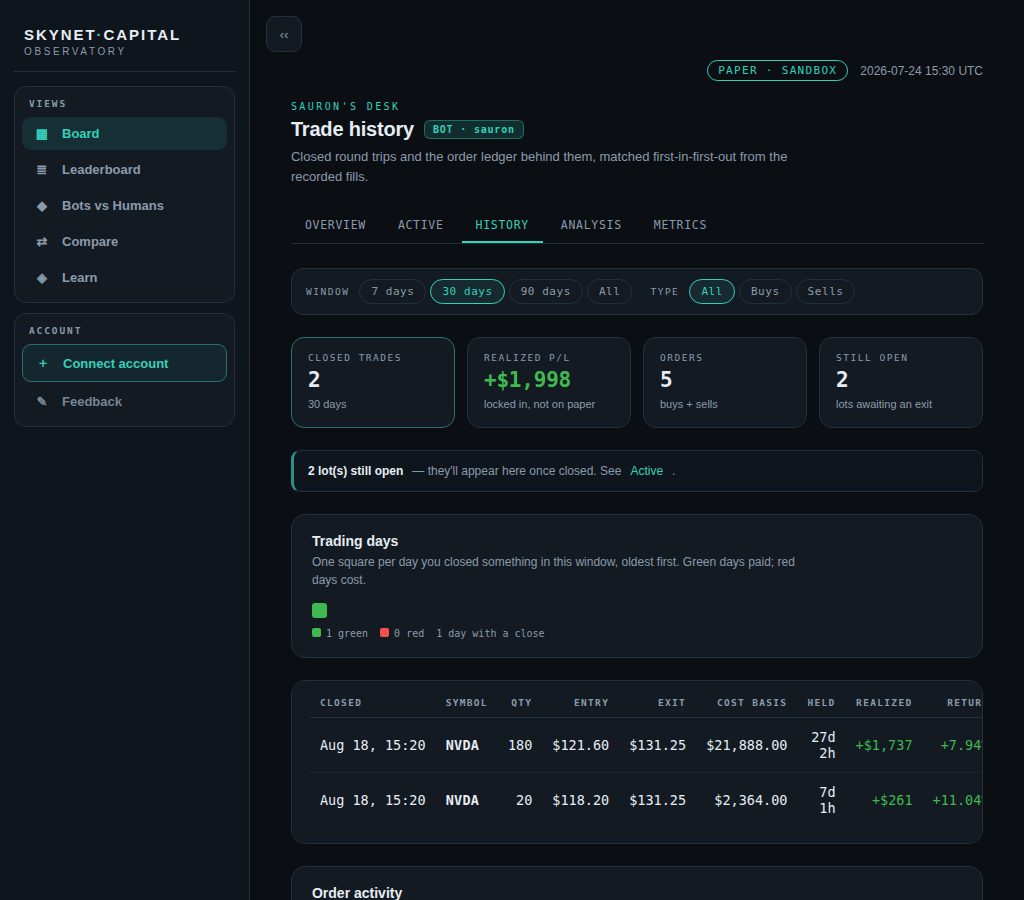
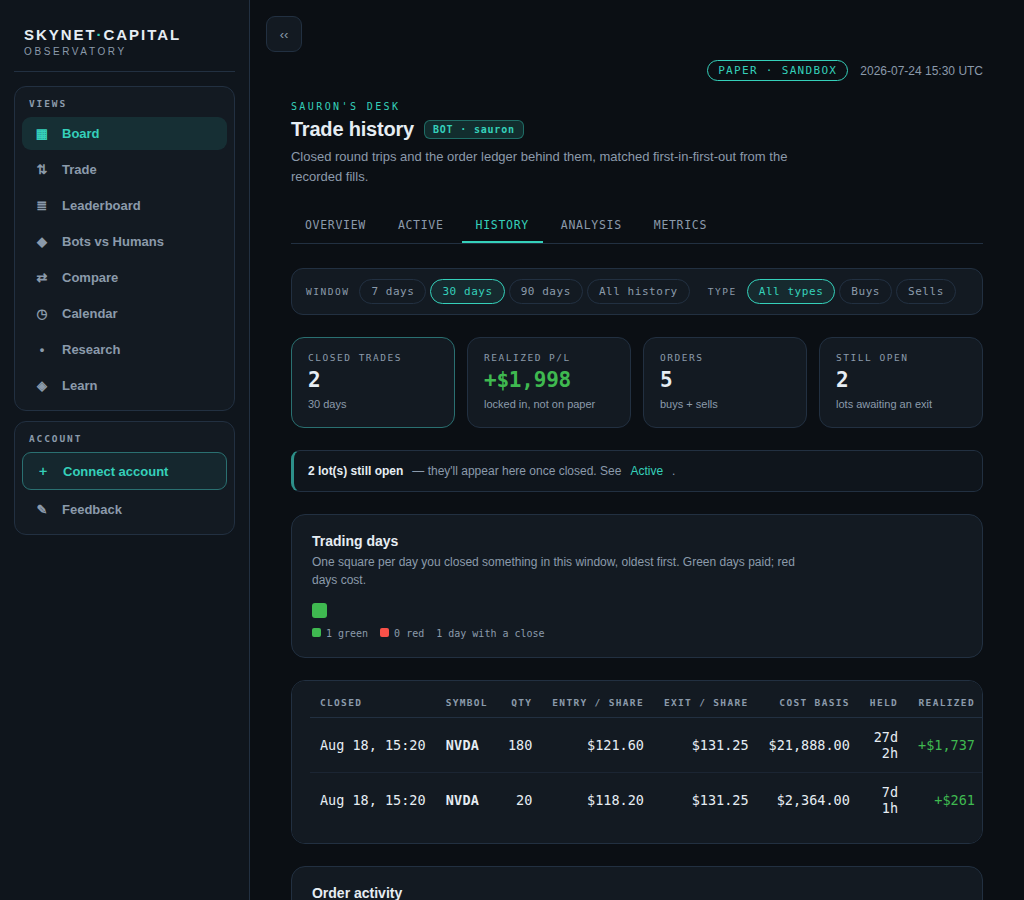
fix(observatory): plain-language blotter headers and unambiguous filter chips
PR #459 feedback: per-share cost named as such (cost / share, entry / share),
"Mark" renamed to Price, and the window chip now says "All history" so it
can't be mistaken for the type filter's "All types".

Claude-Session: https://claude.ai/code/session_01EA6fUkVk57k31yJhzUWXrL

diff --git a/tests/observatory/desk-views.spec.ts b/tests/observatory/desk-views.spec.ts
@@ -113,13 +113,17 @@ describe("desk data adapters", () => {
 });
 
 describe("positions view — the blotter", () => {
-  it("shows the holding with its mark, cost basis, unrealized P/L and return", () => {
+  it("shows the holding with its price, cost basis, unrealized P/L and return", () => {
     const html = renderPositionsBody(snapshot(), { isSelf: true });
     expect(html).toContain(">AAPL<");
-    expect(html).toContain("$120"); // mark = 1200 / 10
+    expect(html).toContain("$120"); // price (the mark) = 1200 / 10
     expect(html).toContain("$1,000.00"); // cost basis = 10 × 100
     expect(html).toContain("+$200"); // 1200 − 10×100
     expect(html).toContain("+20.00%");
+    // Plain-language headers (Eric, PR #459): per-share cost named as such, "Mark" retired.
+    expect(html).toContain(">Cost / share</th>");
+    expect(html).toContain(">Price</th>");
+    expect(html).not.toContain(">Mark<");
   });
 
   it("measures the day's move from yesterday's close when the broker recorded one", () => {
@@ -202,6 +206,9 @@ describe("history view — closed round trips and the order ledger", () => {
     expect(html).toContain("Order activity");
     expect(html).toContain('class="fchip active"');
     expect(html).toContain("window=7d&type=all"); // every other window is one click away
+    // The two "All" chips must not read as twins: each names what it selects (Eric, PR #459).
+    expect(html).toContain(">All history<");
+    expect(html).toContain(">All types<");
   });
 
   it("filters orders and trips by the selected window", () => {

diff --git a/src/observatory/history-view.ts b/src/observatory/history-view.ts
@@ -127,8 +127,11 @@ function tripsTable(trips: readonly RoundTrip[], timezone: string | undefined): 
   return `<div class="blotter-wrap">
       <table class="blotter">
         <thead><tr>
-          <th class="tcell">Closed</th><th>Symbol</th><th class="num">Qty</th><th class="num">Entry</th>
-          <th class="num">Exit</th><th class="num">Cost basis</th><th class="num">Held</th><th class="num">Realized</th><th class="num">Return</th>
+          <th class="tcell">Closed</th><th>Symbol</th><th class="num">Qty</th>
+          <th class="num" title="Price paid per share — the cost basis of one share">Entry / share</th>
+          <th class="num" title="Price received per share on the close">Exit / share</th>
+          <th class="num" title="Total paid: shares × entry per share">Cost basis</th>
+          <th class="num">Held</th><th class="num">Realized</th><th class="num">Return</th>
         </tr></thead>
         <tbody>${rows}</tbody>
       </table>

diff --git a/src/observatory/activity-store.ts b/src/observatory/activity-store.ts
@@ -130,11 +130,13 @@ export const ACTIVITY_WINDOWS: ReadonlyArray<{
   { key: "7d", label: "7 days", days: 7 },
   { key: "30d", label: "30 days", days: 30 },
   { key: "90d", label: "90 days", days: 90 },
-  { key: "all", label: "All" },
+  // "All history", not "All": this chip used to sit beside the type filter's identical "All" and
+  // read as one ambiguous pair (Eric, PR #459) — each chip now says what it actually selects.
+  { key: "all", label: "All history" },
 ];
 
 export const ACTIVITY_TYPES: ReadonlyArray<{ key: ActivityTypeFilter; label: string }> = [
-  { key: "all", label: "All" },
+  { key: "all", label: "All types" },
   { key: "buy", label: "Buys" },
   { key: "sell", label: "Sells" },
 ];

diff --git a/src/observatory/positions-view.ts b/src/observatory/positions-view.ts
@@ -134,9 +134,9 @@ function blotter(
         <thead><tr>
           <th>Symbol</th>
           <th class="num">Qty</th>
-          <th class="num">Avg entry</th>
-          <th class="num">Mark</th>
-          <th class="num">Cost basis</th>
+          <th class="num" title="Average price paid per share — the cost basis of one share">Cost / share</th>
+          <th class="num" title="The latest price the position is valued at (the &quot;mark&quot;)">Price</th>
+          <th class="num" title="Total paid: shares × cost per share">Cost basis</th>
           <th class="num">Value</th>
           <th class="num">Day P/L</th>
           <th class="num">Day %</th>
